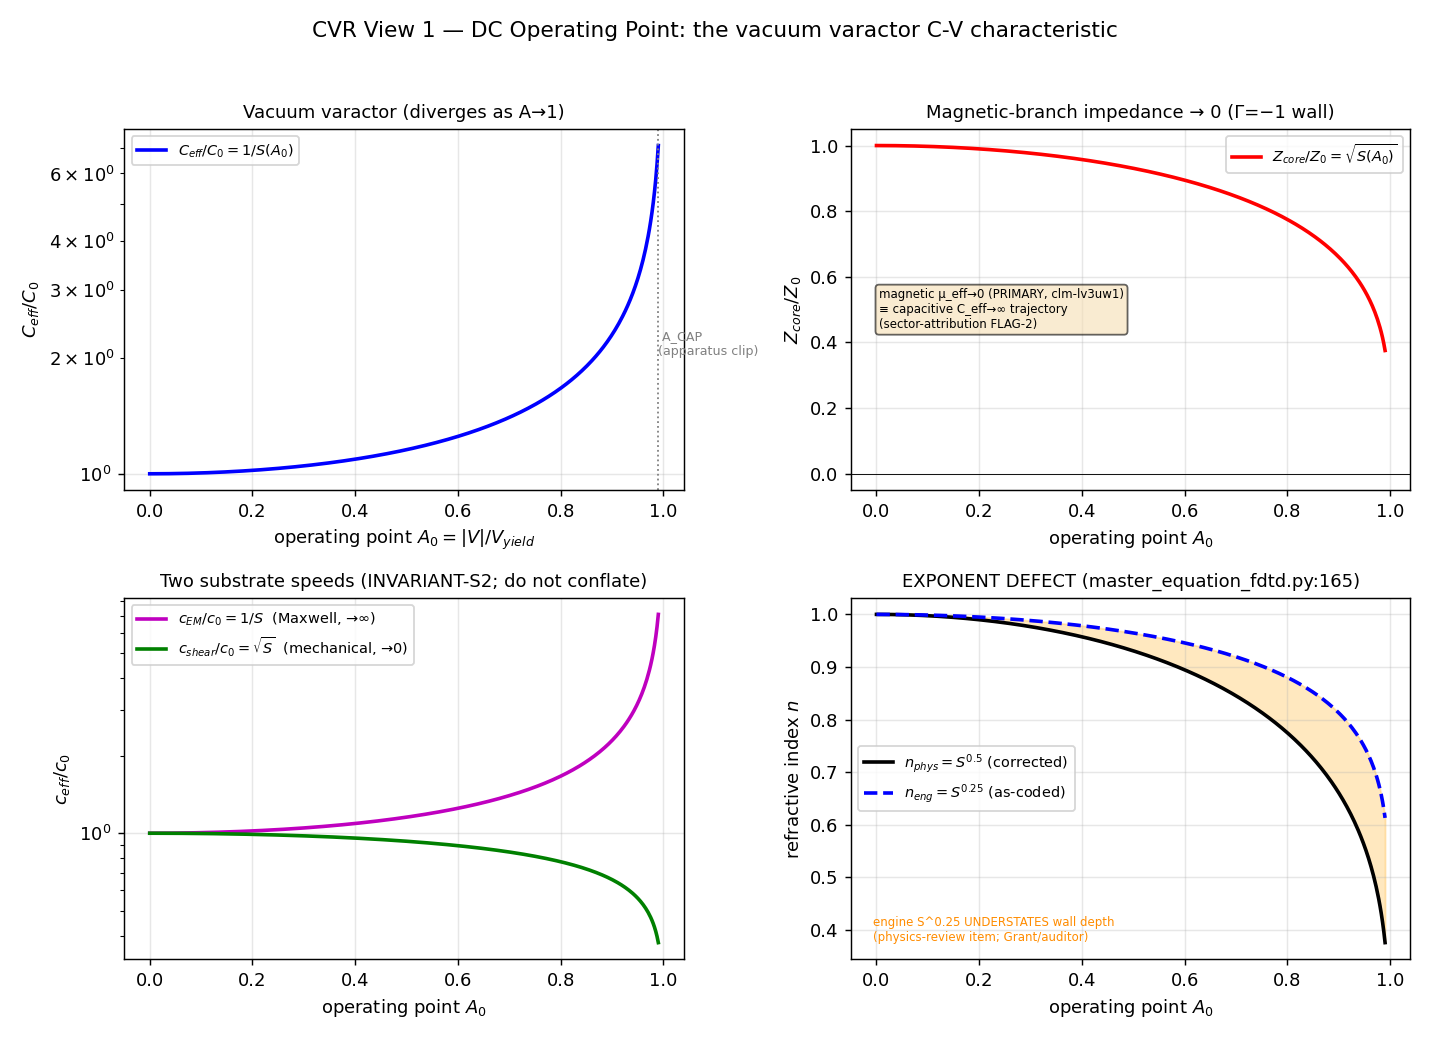
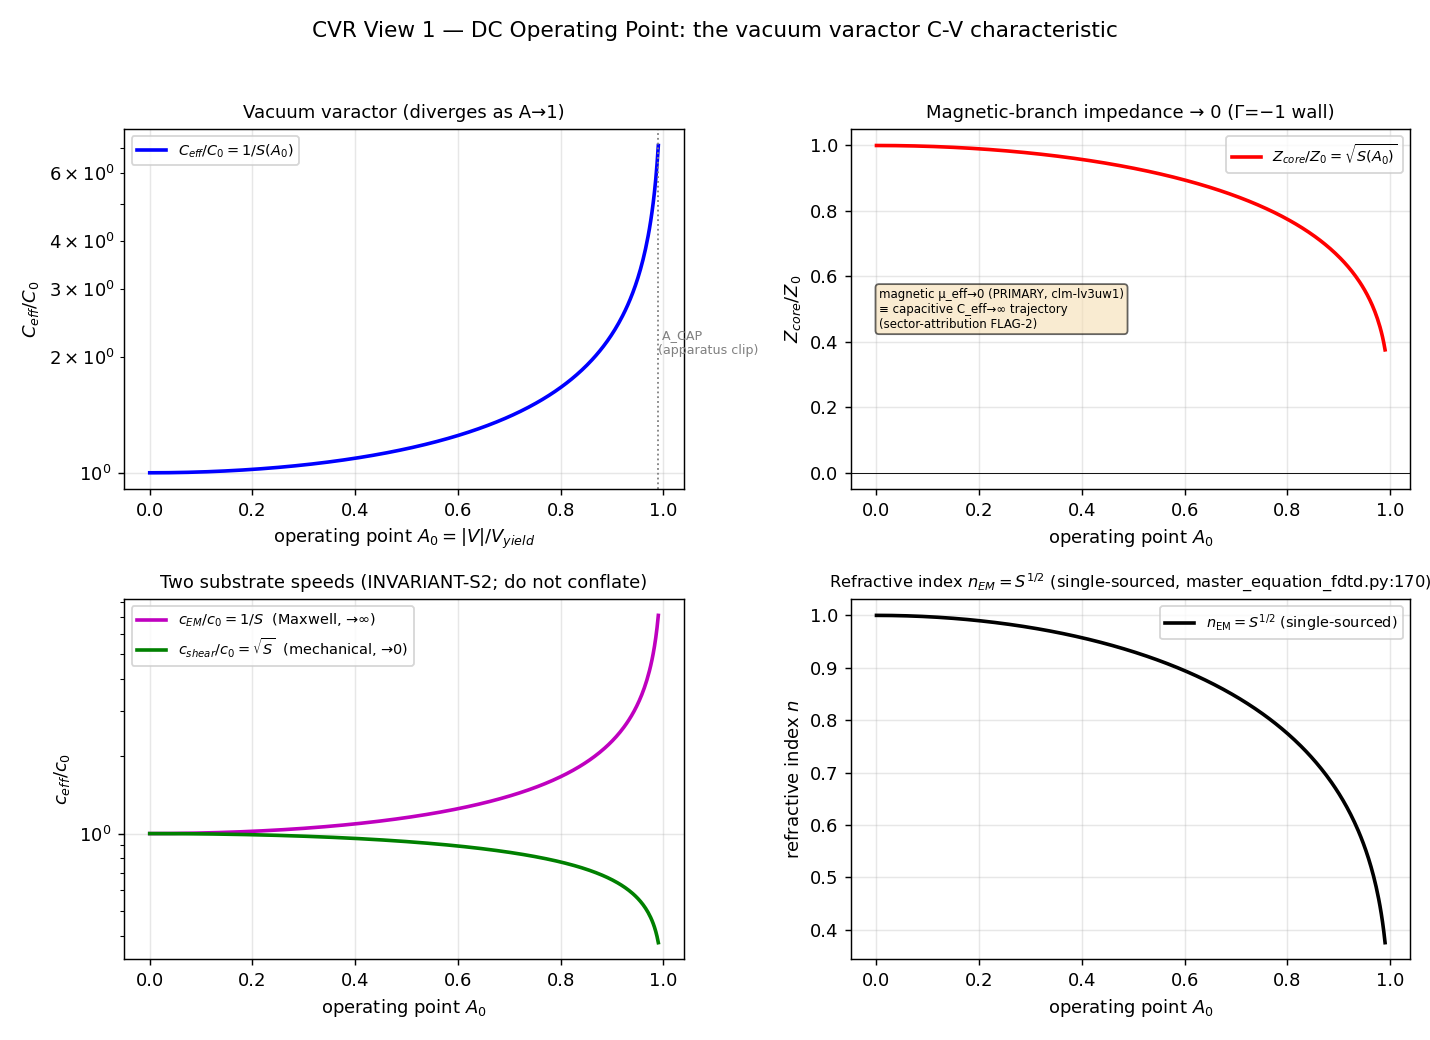
fix(vol9): EMF-sign adjudication + fig1 single-sourced + clm- source-anchors
Addresses the three #332 review flags:
- ch03: EMF sign restored to the IMPLEMENTED +2 (k4_cosserat_coupling.py:838),
  flagged against the analytically-derived -2 (doc 67 §13.6) as an open
  implemented-vs-derived mismatch surfaced for adjudication (the scrub had
  silently picked -2 from the docstring formula). flag-don't-fix.
- ch05 fig1: cvr_ee_sweep.py exponent panel re-rendered single-sourced
  n_EM=S^{1/2} (defect closed); dropped the stale S^0.25-vs-S^0.5 defect band,
  the "physics-review item" annotation, and the gap metric. ave-driver-script-honesty.
- ch02: re-added the stripped clm- IDs as row-end LaTeX comments next to \kbleaf
  in the Canonical-Source table so grep clm-<id> still reaches the manuscript
  (claim-level KB->manuscript reverse search preserved; renders clean).

Builds clean (make vol9 EXIT 0, 0 margin/hard errors); make verify passes.

diff --git a/manuscript/vol_9_vacuum_datasheet/chapters/02_absolute_maximum_ratings.tex b/manuscript/vol_9_vacuum_datasheet/chapters/02_absolute_maximum_ratings.tex
@@ -30,12 +30,12 @@ The substrate-physics derivation of each rating lives in the canonical leaves ci
 \toprule
 \textbf{Symbol} & \textbf{Typical} & \textbf{Units} & \textbf{Substrate Mechanism} & \textbf{Canonical Source} \\
 \midrule
-$V_{snap}$ & $\num{5.110e5}$ & \si{\volt} & Ax 2 + Ax 4: topological node-pair destruction at $\Delta\phi = m_e c^2$ across one $\ell_{node}$ & \kbleaf{vol1/.../dielectric-snap-limit.md}; \kbleaf{constants.py} \texttt{V\_SNAP} \\
-$V_{yield}$ & $\num{4.365e4}$ & \si{\volt} & Ax 4: macroscopic dielectric nonlinear-onset; $S(V_{yield}) = \sqrt{1 - \alpha} \approx 0.996$; engine default for macroscopic solvers & \kbleaf{vol4/claim-quality.md}; \kbleaf{vol4/.../regimes-of-operation.md}; \kbleaf{constants.py} \texttt{V\_YIELD} \\
-$E_S$ & $\num{1.323e18}$ & \si{\volt\per\metre} & Ax 4 + Ax 2: Schwinger pair-production critical field; $E_S = V_{snap}/\ell_{node} = m_e^2 c^3/(e\hbar)$ & \kbleaf{vol1/.../dielectric-rupture.md} (QED-anchor + $p_c$ identity); \kbleaf{vol2/.../pair-production-axiom-derivation.md}; \kbleaf{constants.py:432} \texttt{E\_CRIT} \\
-$E_{yield}$ & $\num{1.130e17}$ & \si{\volt\per\metre} & Ax 4: macroscopic field-onset; $E_{yield} = V_{yield}/\ell_{node} = \sqrt{\alpha}\, E_S$; engine default for FDTD / K4-TLM macroscopic solvers & \kbleaf{vol4/.../regimes-of-operation.md}; \kbleaf{constants.py:438} \texttt{E\_YIELD} \\
-$B_{snap}$ & $\num{1.892e9}$ & \si{\tesla} & Ax 1 + Ax 4: Cosserat microrotational saturation; $B^2/(2\mu_0) = m_e c^2/\ell_{node}^3$ (energy density = rest energy per cell); $\mu_{eff} \to 0$ (vacuum becomes perfect diamagnet) & \kbleaf{vol1/.../four-regimes.md}; \kbleaf{vol1/.../domain-catalog.md}; \kbleaf{constants.py:444} \texttt{B\_SNAP} \\
-$T_{melt}$ & $\sim\num{5.93e9}$ & \si{\kelvin} & Ax 4 + thermal-bath: $k_B T \approx m_e c^2$; lightest topological excitation (electron-positron pair) thermally accessible; mode-freezeout regime ends, vacuum heat-capacity falls (Debye-class) & \kbleaf{vol3/.../mode-counting-heat-capacity.md}; \kbleaf{common/temporal-saturation-regime-classifier.md} \\
+$V_{snap}$ & $\num{5.110e5}$ & \si{\volt} & Ax 2 + Ax 4: topological node-pair destruction at $\Delta\phi = m_e c^2$ across one $\ell_{node}$ & \kbleaf{vol1/.../dielectric-snap-limit.md}; \kbleaf{constants.py} \texttt{V\_SNAP} \\ % clm-2dwzib
+$V_{yield}$ & $\num{4.365e4}$ & \si{\volt} & Ax 4: macroscopic dielectric nonlinear-onset; $S(V_{yield}) = \sqrt{1 - \alpha} \approx 0.996$; engine default for macroscopic solvers & \kbleaf{vol4/claim-quality.md}; \kbleaf{vol4/.../regimes-of-operation.md}; \kbleaf{constants.py} \texttt{V\_YIELD} \\ % clm-0vxzfu
+$E_S$ & $\num{1.323e18}$ & \si{\volt\per\metre} & Ax 4 + Ax 2: Schwinger pair-production critical field; $E_S = V_{snap}/\ell_{node} = m_e^2 c^3/(e\hbar)$ & \kbleaf{vol1/.../dielectric-rupture.md} (QED-anchor + $p_c$ identity); \kbleaf{vol2/.../pair-production-axiom-derivation.md}; \kbleaf{constants.py:432} \texttt{E\_CRIT} \\ % clm-ezai5b
+$E_{yield}$ & $\num{1.130e17}$ & \si{\volt\per\metre} & Ax 4: macroscopic field-onset; $E_{yield} = V_{yield}/\ell_{node} = \sqrt{\alpha}\, E_S$; engine default for FDTD / K4-TLM macroscopic solvers & \kbleaf{vol4/.../regimes-of-operation.md}; \kbleaf{constants.py:438} \texttt{E\_YIELD} \\ % clm-trgqtf
+$B_{snap}$ & $\num{1.892e9}$ & \si{\tesla} & Ax 1 + Ax 4: Cosserat microrotational saturation; $B^2/(2\mu_0) = m_e c^2/\ell_{node}^3$ (energy density = rest energy per cell); $\mu_{eff} \to 0$ (vacuum becomes perfect diamagnet) & \kbleaf{vol1/.../four-regimes.md}; \kbleaf{vol1/.../domain-catalog.md}; \kbleaf{constants.py:444} \texttt{B\_SNAP} \\ % clm-82dxbj
+$T_{melt}$ & $\sim\num{5.93e9}$ & \si{\kelvin} & Ax 4 + thermal-bath: $k_B T \approx m_e c^2$; lightest topological excitation (electron-positron pair) thermally accessible; mode-freezeout regime ends, vacuum heat-capacity falls (Debye-class) & \kbleaf{vol3/.../mode-counting-heat-capacity.md}; \kbleaf{common/temporal-saturation-regime-classifier.md} \\ % clm-uu6dl5
 \bottomrule
 \end{tabular}
 \caption{Substrate absolute-maximum ratings: rupture/saturation thresholds, their substrate mechanisms, and canonical sources. Values imported from \kbleaf{src/ave/core/constants.py}.}

diff --git a/manuscript/vol_9_vacuum_datasheet/chapters/03_pin_port_configuration.tex b/manuscript/vol_9_vacuum_datasheet/chapters/03_pin_port_configuration.tex
@@ -135,7 +135,7 @@ The cell's sectors are not independent: a faithful simulation must wire the docu
     Net: the chiral Beltrami source carries a \emph{sign} (handedness) but does not close the topology and has no lock. This coupling must \textbf{not} be wired as an established shear$\leftrightarrow$bulk source: the substrate records sign-selection present, topology and lock not established, $\chi$-source unresolved.
 \end{description}
 
-\noindent\textbf{The flag-gated EMF reciprocal --- a non-conservative coupling that must stay off.} The engine carries an optional Lagrangian-EMF cross-sector term (\kbleaf{src/ave/topological/k4\_cosserat\_coupling.py}:258--259, the per-port EMF $= -2\,V_{inc}\,\partial L_c/\partial V_{sq}$, behind the flag \texttt{use\_lagrangian\_emf\_coupling}, default \texttt{False} at :223). The \textbf{NON-CONSERVATIVE} classification rests on the measured runaway: the code's own NOTE at :260--261 records that this term ``AMPLIFIES the runaway; path-1 was the wrong direction.'' With this term enabled the cell energy diverges monotonically ($E_V \to \num{6.8e8}$) and $|\mathbf{L}|$ grows unbounded ($2.7 \to 43.4$) without reversal --- the runaway that motivates the off-by-default setting. The flag defaults to \texttt{False} \emph{because} the coupling drives this runaway. On the empirical record this term is non-conservative and off by default. An in-code comment at :836--837 describing the positive sign as ``oscillatory exchange consistent with reciprocal LC dynamics'' (i.e.\ conservative) is not consistent with the observed runaway and is not the basis for this classification. Whether this term is genuinely reciprocal or strictly runaway is an open substrate-physics question; on the empirical record the datasheet records it as \textbf{NON-CONSERVATIVE / off-by-default}, and Ch.~\ref{ch:vol9_engine_requirements} states the corresponding engine requirement (cross-sector couplings must be conservative Hamiltonian pairs).
+\noindent\textbf{The flag-gated EMF reciprocal --- a non-conservative coupling that must stay off.} The engine carries an optional Lagrangian-EMF cross-sector term (\kbleaf{src/ave/topological/k4\_cosserat\_coupling.py}:838, the per-port EMF \emph{as implemented} $= +2\,V_{inc}\,\partial L_c/\partial V_{sq}$, behind the flag \texttt{use\_lagrangian\_emf\_coupling}, default \texttt{False} at :223). The implemented $+2$ sign is the \emph{opposite} of the analytically-derived $-2\,V_{inc}\,\partial L_c/\partial V_{sq}$ (the $\partial L_c/\partial V_{sq}$ gradient verified to zero relative error, doc~67~\S13.6) --- this implemented-vs-derived sign mismatch is an open substrate-physics question, surfaced for adjudication and not resolved here. The \textbf{NON-CONSERVATIVE} classification rests on the measured runaway: the code's own NOTE at :260--261 records that this term ``AMPLIFIES the runaway; path-1 was the wrong direction.'' With this term enabled the cell energy diverges monotonically ($E_V \to \num{6.8e8}$) and $|\mathbf{L}|$ grows unbounded ($2.7 \to 43.4$) without reversal --- the runaway that motivates the off-by-default setting. The flag defaults to \texttt{False} \emph{because} the coupling drives this runaway. On the empirical record this term is non-conservative and off by default. An in-code comment at :836--837 describing the positive sign as ``oscillatory exchange consistent with reciprocal LC dynamics'' (i.e.\ conservative) is not consistent with the observed runaway and is not the basis for this classification. Whether this term is genuinely reciprocal or strictly runaway is an open substrate-physics question; on the empirical record the datasheet records it as \textbf{NON-CONSERVATIVE / off-by-default}, and Ch.~\ref{ch:vol9_engine_requirements} states the corresponding engine requirement (cross-sector couplings must be conservative Hamiltonian pairs).
 
 \section{Port Class Taxonomy}
 \label{sec:vol9_port_class_taxonomy}

diff --git a/src/scripts/vol_9_device/cvr_ee_sweep/cvr_ee_sweep.py b/src/scripts/vol_9_device/cvr_ee_sweep/cvr_ee_sweep.py
@@ -96,16 +96,12 @@ def view1_dc_operating_point() -> dict:
     ax.legend(fontsize=8)
     ax.grid(alpha=0.3)
 
-    # exponent-defect panel: n_engine = S^0.25 vs n_physical = S^0.5
+    # refractive index: single-sourced exponent (defect closed — engine n_EM = S^{1/2})
     ax = axes[1, 1]
-    ax.plot(A, M.n_physical(A), "k-", lw=2, label=r"$n_{phys}=S^{0.5}$ (corrected)")
-    ax.plot(A, M.n_engine(A), "b--", lw=2, label=r"$n_{eng}=S^{0.25}$ (as-coded)")
-    ax.fill_between(A, M.n_physical(A), M.n_engine(A), color="orange", alpha=0.25)
+    ax.plot(A, M.n_physical(A), "k-", lw=2, label=r"$n_{\mathrm{EM}}=S^{1/2}$ (single-sourced)")
     ax.set_xlabel(r"operating point $A_0$")
     ax.set_ylabel(r"refractive index $n$")
-    ax.set_title("EXPONENT DEFECT (master_equation_fdtd.py:165)", fontsize=10)
-    ax.text(0.04, 0.05, "engine S^0.25 UNDERSTATES wall depth\n(physics-review item; Grant/auditor)",
-            fontsize=6.5, transform=ax.transAxes, color="darkorange")
+    ax.set_title(r"Refractive index $n_{EM}=S^{1/2}$ (single-sourced, master_equation_fdtd.py:170)", fontsize=9)
     ax.legend(fontsize=8)
     ax.grid(alpha=0.3)
 
@@ -117,7 +113,7 @@ def view1_dc_operating_point() -> dict:
         "A_grid_max": float(M.A_CAP),
         "Ceff_over_C0_at_A0.9": float(M.c_eff_capacitance(np.array(0.9))),
         "Zcore_over_Z0_at_A0.9": float(M.z_core(np.array(0.9)) / M.Z_0),
-        "n_engine_minus_n_physical_max_gap": float(np.max(M.n_engine(A) - M.n_physical(A))),
+        "n_EM_at_A0.9": float(M.n_physical(np.array(0.9))),
     }
 
 
